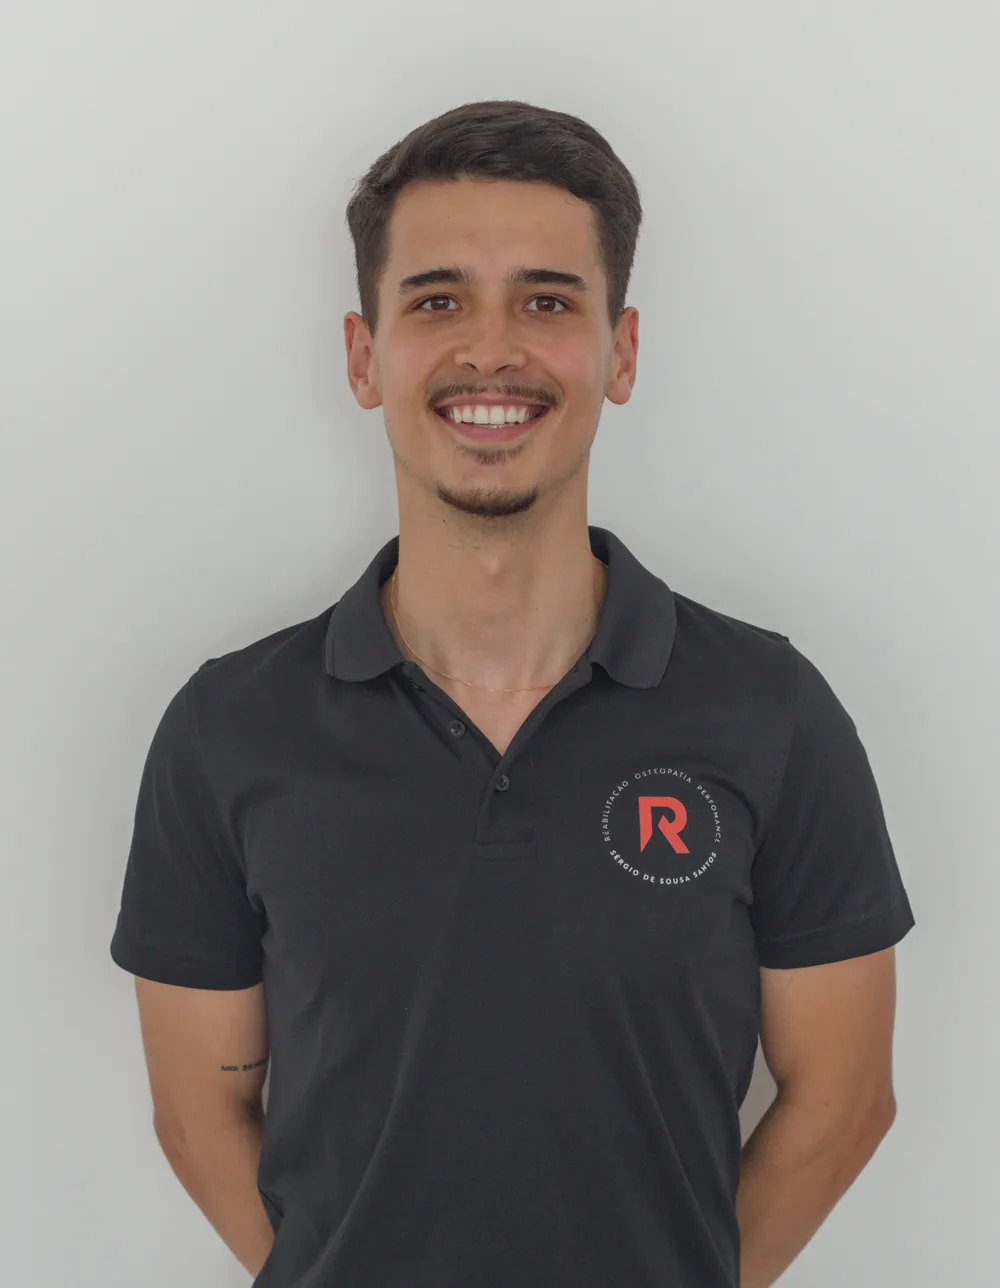
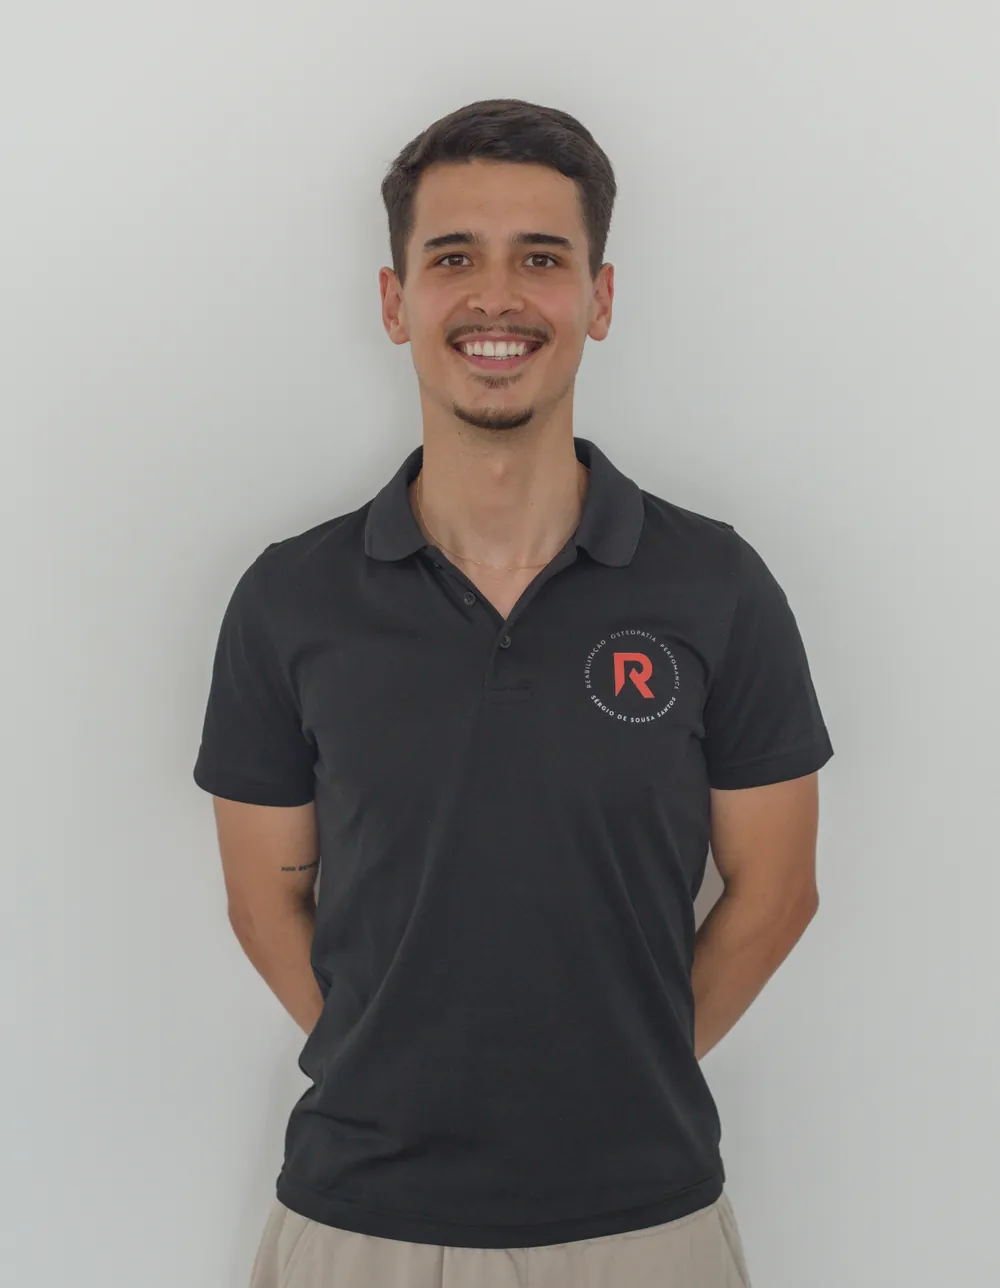
Correções de conteúdo e fotos novas (Agosto 26)
- Header: remove 3 imagens do carrossel (hero-1, facade-2, hero-4).
- Posicionamento: nova imagem (Sergio_Terapia_18) e texto revisto.
- Equipa: fotos novas, todos de frente e com o mesmo enquadramento.
- Instalações: remove a citação do fundador, repõe a grelha original,
  foto de grupo mais pequena e fotos focadas no espaço e nos serviços.

Changed region(s): [[0.093, 0.0621, 0.93, 1.0]]

diff --git a/src/data/gallery.ts b/src/data/gallery.ts
@@ -1,8 +1,10 @@
-import entrance from '@/assets/entrance.webp';
-import facadeFront from '@/assets/facade-front.webp';
-import spaceInterior from '@/assets/space-interior.webp';
+import facade from '@/assets/facade.webp';
+import gymTwo from '@/assets/gym-2-fixed.webp';
+import spaceOpen from '@/assets/space-open.webp';
 import teamGroup from '@/assets/team-group.webp';
 import therapyLaser from '@/assets/therapy-laser.webp';
+import therapyManual from '@/assets/therapy-manual.webp';
+import training from '@/assets/training.webp';
 import type { GalleryImage } from '@/types';
 
 /** Foto de grupo, apresentada inteira (sem recorte) antes da grelha. */
@@ -13,8 +15,10 @@ export const teamGroupImage: GalleryImage = {
 };
 
 export const galleryImages: readonly GalleryImage[] = [
-  { id: 'entrance', src: entrance, alt: 'Reaction — entrada' },
-  { id: 'space-interior', src: spaceInterior, alt: 'Reaction — zona de treino' },
-  { id: 'facade-front', src: facadeFront, alt: 'Reaction — fachada, Coimbra' },
+  { id: 'training', src: training, alt: 'Reaction — sessão de treino', tall: true },
+  { id: 'facade', src: facade, alt: 'Reaction — fachada, Coimbra' },
+  { id: 'space-open', src: spaceOpen, alt: 'Reaction — zona de treino' },
+  { id: 'gym-2', src: gymTwo, alt: 'Reaction — equipamento de treino', tall: true },
+  { id: 'therapy-manual', src: therapyManual, alt: 'Reaction — sessão de terapia manual' },
   { id: 'therapy-laser', src: therapyLaser, alt: 'Reaction — sessão de laserterapia' },
 ];

diff --git a/src/data/team.ts b/src/data/team.ts
@@ -5,7 +5,7 @@ import joaoPhoto from '@/assets/team/joao.webp';
 import pedroPhoto from '@/assets/team/pedro.webp';
 import sergioPhoto from '@/assets/team/sergio-santos.webp';
 import tomasPhoto from '@/assets/team/tomas.webp';
-import type { Quote, TeamMember } from '@/types';
+import type { TeamMember } from '@/types';
 
 export const teamMembers: readonly TeamMember[] = [
   {
@@ -75,9 +75,3 @@ export const teamMembers: readonly TeamMember[] = [
     linkedInUrl: 'https://www.linkedin.com/in/ana-rita-martins-369a221b3/',
   },
 ];
-
-/** Citação do fundador, apresentada na secção Instalações. */
-export const founderQuote: Quote = {
-  text: 'Este espaço é a concretização de uma visão construída ao longo de vários anos, assente na qualidade da resposta, na proximidade e na procura constante da inovação e excelência. Queremos que cada pessoa que entra na Reaction encontre uma equipa preparada para a ajudar a recuperar, a evoluir e a atingir o seu melhor potencial.',
-  author: 'Sérgio Santos, Fundador',
-};

diff --git a/src/sections/About/About.tsx b/src/sections/About/About.tsx
@@ -12,8 +12,8 @@ export function About() {
           <Eyebrow>Posicionamento</Eyebrow>
           <h2 className={styles.title}>Uma nova visão sobre a Reabilitação</h2>
           <p className={styles.lead}>
-            A abordagem tradicional resolve episódios pontuais: dor, lesão, mas às vezes apenas com
-            alívio temporário.
+            A abordagem tradicional resolve episódios pontuais: dor, lesão, disfunção; mas muitas
+            vezes apenas com alívio temporário.
           </p>
           <p>
             Na Reaction partimos de uma visão diferente: a dor, as lesões e a performance não estão
@@ -30,7 +30,7 @@ export function About() {
         <img
           className={styles.image}
           src={therapy}
-          alt="Sérgio Santos em sessão de tratamento"
+          alt="Sérgio Santos em sessão de terapia"
           loading="lazy"
         />
       </div>

diff --git a/src/sections/Facilities/Facilities.module.css b/src/sections/Facilities/Facilities.module.css
@@ -1,35 +1,16 @@
-.quote {
-  margin-bottom: 40px;
-  padding: 26px 28px;
-  border-left: 4px solid var(--color-red);
-  background: var(--color-near-black);
-  font-style: italic;
-  color: var(--color-text-quote);
-  font-size: 16.5px;
-}
-
-.quote cite {
-  display: block;
-  margin-top: 14px;
-  font-style: normal;
-  font-family: var(--font-display);
-  text-transform: uppercase;
-  letter-spacing: 0.06em;
-  color: var(--color-red);
-  font-size: 14px;
-}
-
 .feature {
+  display: block;
   width: 100%;
+  max-width: 720px;
   height: auto;
   aspect-ratio: 1800 / 1130;
-  margin-bottom: 12px;
+  margin: 0 auto 12px;
 }
 
 .grid {
   display: grid;
   grid-template-columns: repeat(4, 1fr);
-  grid-auto-rows: 300px;
+  grid-auto-rows: 220px;
   gap: 12px;
   list-style: none;
 }

diff --git a/src/data/hero.ts b/src/data/hero.ts
@@ -1,19 +1,12 @@
-import facadeTwo from '@/assets/facade-2.webp';
 import gymOne from '@/assets/gym-1.webp';
 import gymTwo from '@/assets/gym-2-fixed.webp';
-import heroOne from '@/assets/hero-1.webp';
 import heroTwo from '@/assets/hero-2.webp';
 import heroThree from '@/assets/hero-3.webp';
-import heroFour from '@/assets/hero-4-raw.webp';
 import type { HeroSlide } from '@/types';
 
-
 export const heroSlides: readonly HeroSlide[] = [
-  { id: 'hero-1', src: heroOne },
-  { id: 'gym-1', src: gymOne },
   { id: 'hero-2', src: heroTwo },
-  { id: 'facade-2', src: facadeTwo },
+  { id: 'gym-1', src: gymOne },
   { id: 'hero-3', src: heroThree },
   { id: 'gym-2', src: gymTwo },
-  { id: 'hero-4', src: heroFour, position: 'center 25%' },
 ];

diff --git a/src/sections/Facilities/Facilities.tsx b/src/sections/Facilities/Facilities.tsx
@@ -1,6 +1,6 @@
 import { Section } from '@/components/layout';
 import { SectionHeading } from '@/components/ui';
-import { founderQuote, galleryImages, site, teamGroupImage } from '@/data';
+import { galleryImages, site, teamGroupImage } from '@/data';
 import { cx } from '@/utils';
 
 import styles from './Facilities.module.css';
@@ -13,10 +13,6 @@ export function Facilities() {
         title={site.city}
         description="Um espaço ao serviço da excelência no movimento — da reabilitação ao treino de alta performance."
       />
-
-      <blockquote className={styles.quote}>
-        “{founderQuote.text}”<cite>{founderQuote.author}</cite>
-      </blockquote>
 
       <img
         className={styles.feature}

diff --git a/src/data/index.ts b/src/data/index.ts
@@ -4,4 +4,4 @@ export { navLinks } from './navigation';
 export { positioningSlides } from './positioning';
 export { services } from './services';
 export { contactDetails, legalLinks, site, socialLinks } from './site';
-export { founderQuote, teamMembers } from './team';
+export { teamMembers } from './team';

diff --git a/e2e/fixtures.ts b/e2e/fixtures.ts
@@ -44,4 +44,4 @@ export const NAV_ITEMS = [
 export const WHATSAPP_URL = 'https://wa.me/351910372125';
 export const PHONE_HREF = 'tel:+351910372125';
 export const EMAIL_HREF = 'mailto:reaction.sergiosantos@gmail.com';
-export const GALLERY_IMAGE_COUNT = 5;
+export const GALLERY_IMAGE_COUNT = 7;

diff --git a/src/types/index.ts b/src/types/index.ts
@@ -28,11 +28,6 @@ export interface TeamMember {
   linkedInUrl?: string;
 }
 
-export interface Quote {
-  text: string;
-  author: string;
-}
-
 export interface HeroSlide {
   id: string;
   src: string;
